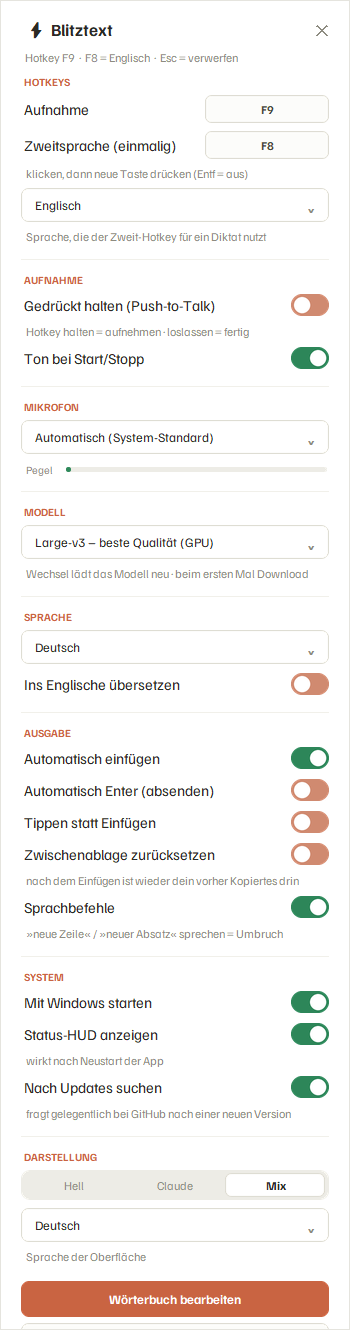
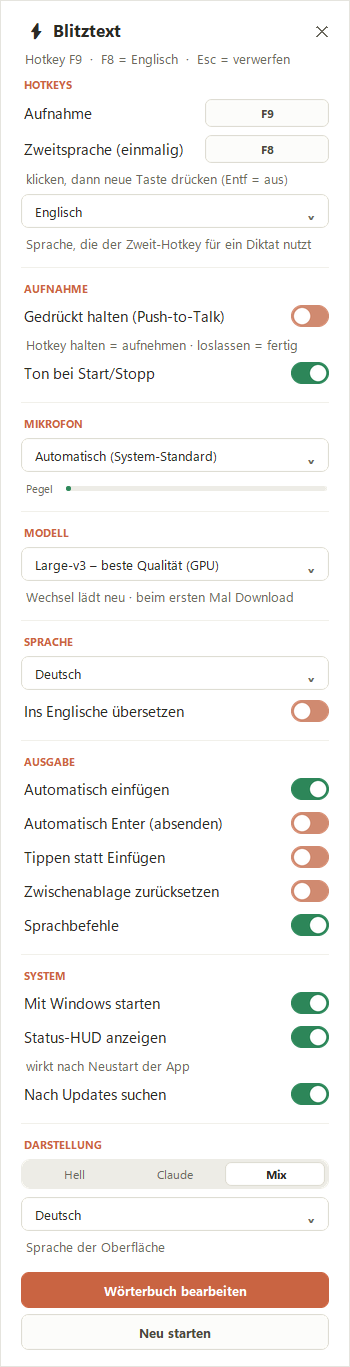
Einstellungen: gut lesbare Schrift, dunklerer Nebentext, größere Hover-Blase, neuer Screenshot

diff --git a/settings.py b/settings.py
@@ -3,7 +3,7 @@ Einstellungsfenster fuer Blitztext (Doppelklick auf das Tray-Icon).
 
 Design: randlose helle "Bubble" mit runden Ecken (DWM), flache Flaechen,
 drei umschaltbare Stile (cfg["theme"]):
-  "mix"    - weiss, Lora-Titel + Familjen Grotesk, Terrakotta/Gruen (Standard)
+  "mix"    - weiss, Lora-Titel, gut lesbare Windows-Schrift, Terrakotta/Gruen (Standard)
   "claude" - warmes Creme, gleiche Schriften, Terrakotta
   "hell"   - Segoe UI Variable, Windows-Blau
 Die Schriften liegen als TTF in ./fonts und werden nur fuer diesen Prozess
@@ -80,7 +80,7 @@ AMPEL = [(0.88, "#c53929"), (0.70, "#d9930d"), (0.0, "#2d8659")]
 THEMES = {
     "mix": dict(
         label="Mix",
-        bg="#ffffff", border="#e5e4de", text="#2b2a25", subtle="#8d8b80",
+        bg="#ffffff", border="#e5e4de", text="#2b2a25", subtle="#6b695e",
         divider="#f1f0ea", sect="#c96442",
         chip_bg="#fcfcfa", chip_border="#dcdad0", chip_text="#4a483d",
         chip_hot="#c96442", chip_hot2="#dd8a68",
@@ -94,7 +94,7 @@ THEMES = {
     ),
     "claude": dict(
         label="Claude",
-        bg="#faf9f5", border="#e8e5da", text="#35322a", subtle="#94907f",
+        bg="#faf9f5", border="#e8e5da", text="#35322a", subtle="#6c6858",
         divider="#efede3", sect="#94907f",
         chip_bg="#ffffff", chip_border="#ddd9c9", chip_text="#56523f",
         chip_hot="#c96442", chip_hot2="#dd8a68",
@@ -108,7 +108,7 @@ THEMES = {
     ),
     "hell": dict(
         label="Hell",
-        bg="#ffffff", border="#e4e6ea", text="#1b1e24", subtle="#878d97",
+        bg="#ffffff", border="#e4e6ea", text="#1b1e24", subtle="#656b75",
         divider="#f0f1f4", sect="#878d97",
         chip_bg="#fafbfc", chip_border="#d9dce1", chip_text="#3c414a",
         chip_hot="#0f6cbd", chip_hot2="#5b97d6",
@@ -350,14 +350,13 @@ def _run(ctx):
         pal = THEMES.get(cfg.get("theme") or "mix", THEMES["mix"])
         BGC = pal["bg"]
 
-        # Schriften: Familjen Grotesk/Lora falls geladen, sonst Segoe UI
-        if pal["serif"] and "Familjen Grotesk" in fams:
-            body = "Familjen Grotesk"
-        elif not pal["serif"] and "Segoe UI Variable Text" in fams:
+        # Schriften: Fliesstext in der klaren Windows-Schrift (Familjen Grotesk war schwer
+        # zu lesen); nur der Titel nutzt bei den Serif-Stilen die Schrift Lora
+        if "Segoe UI Variable Text" in fams:
             body = "Segoe UI Variable Text"
         else:
             body = "Segoe UI"
-        F, FS, FB = (body, 11), (body, 9), (body, 10)
+        F, FS, FB = (body, 11), (body, 10), (body, 10)
         if pal["serif"] and "Lora" in fams:
             FT = ("Lora", 14)              # die Datei ist SemiBold
         elif "Segoe UI Variable Display" in fams and not pal["serif"]:
@@ -399,7 +398,7 @@ def _run(ctx):
 
         def hint(text):
             tk.Label(content, text=t(text), bg=BGC, fg=pal["subtle"], font=FS,
-                     anchor="w").pack(fill="x", padx=22)
+                     anchor="w", justify="left", wraplength=WW - 48).pack(fill="x", padx=22)
 
         def attach_tip(widgets, key):
             """Kleine Erklaerung, wenn die Maus kurz ueber der Zeile verweilt."""
@@ -428,8 +427,9 @@ def _run(ctx):
                 tw.overrideredirect(True)
                 tw.attributes("-topmost", True)
                 tw.configure(bg=pal["text"])
-                tk.Label(tw, text=t(tip), bg=pal["text"], fg=pal["bg"], font=FS,
-                         justify="left", wraplength=220, padx=14, pady=8).pack()
+                tk.Label(tw, text=t(tip), bg=pal["text"], fg="#ffffff",
+                         font=("Segoe UI", 11), justify="left", wraplength=260,
+                         padx=16, pady=9).pack()
                 _round_corners(tw)                     # runde "Blase"
                 tw.update_idletasks()
                 bw, bh = tw.winfo_reqwidth(), tw.winfo_reqheight()
@@ -807,7 +807,7 @@ def _run(ctx):
                 ctx["reload_model"]()      # lädt im Hintergrund neu (Icon grau)
         select_row(lambda: model_to_label.get(cfg.get("model"), cfg.get("model") or "?"),
                    [l for l, _ in MODELS], model_pick, tip="Modell-Auswahl")
-        hint("Wechsel lädt das Modell neu · beim ersten Mal Download")
+        hint("Wechsel lädt neu · beim ersten Mal Download")
 
         section("SPRACHE")
         code_to_label = {c: l for l, c in LANGS}
@@ -823,9 +823,7 @@ def _run(ctx):
         toggle_row("Automatisch Enter (absenden)", *cfg_toggle("auto_enter"))
         toggle_row("Tippen statt Einfügen", *cfg_toggle("type_instead_of_paste"))
         toggle_row("Zwischenablage zurücksetzen", *cfg_toggle("restore_clipboard"))
-        hint("nach dem Einfügen ist wieder dein vorher Kopiertes drin")
         toggle_row("Sprachbefehle", *cfg_toggle("voice_commands"))
-        hint("»neue Zeile« / »neuer Absatz« sprechen = Umbruch")
 
         section("SYSTEM")
         toggle_row("Mit Windows starten",
@@ -834,7 +832,6 @@ def _run(ctx):
         toggle_row("Status-HUD anzeigen", *cfg_toggle("overlay"))
         hint("wirkt nach Neustart der App")
         toggle_row("Nach Updates suchen", *cfg_toggle("update_check"))
-        hint("fragt gelegentlich bei GitHub nach einer neuen Version")
 
         section("DARSTELLUNG")
         seg_row()
